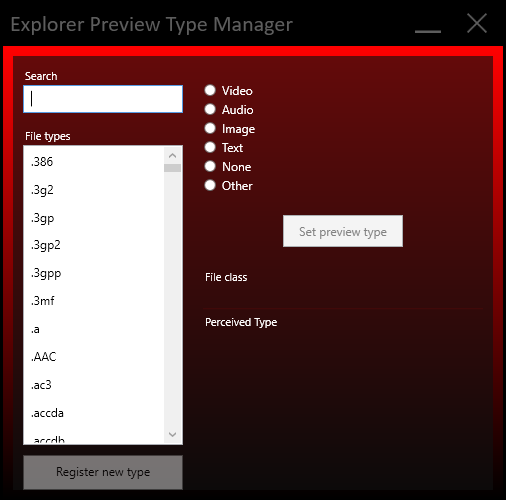
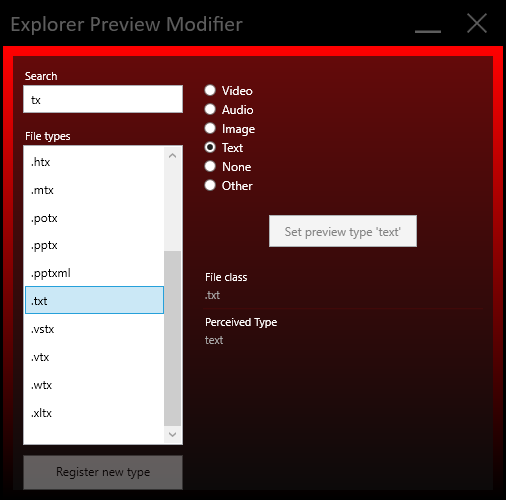
change product name to "Explorer Preview Modifier"

diff --git a/ExplorerPreview/MainWindow.xaml b/ExplorerPreview/MainWindow.xaml
@@ -11,7 +11,7 @@
         ResizeMode="NoResize"
         Margin="0"
         Style="{StaticResource CustomWindow2}"
-        Title="Explorer Preview As"
+        Title="Explorer Preview Modifier"
         Height="500" MinWidth="{Binding ElementName=mainGrid, Path=Width}" Padding="0" Width="506"
         d:DataContext="{d:DesignInstance Type=vm:MainViewModel,IsDesignTimeCreatable=True}" >
 

diff --git a/ExplorerPreview/Properties/Resources.Designer.cs b/ExplorerPreview/Properties/Resources.Designer.cs
@@ -8,10 +8,10 @@
 // </auto-generated>
 //------------------------------------------------------------------------------
 
-namespace ExplorerPreview.Properties
-{
-
-
+namespace ExplorerPreview.Properties {
+    using System;
+    
+    
     /// <summary>
     ///   A strongly-typed resource class, for looking up localized strings, etc.
     /// </summary>
@@ -19,51 +19,43 @@ namespace ExplorerPreview.Properties
     // class via a tool like ResGen or Visual Studio.
     // To add or remove a member, edit your .ResX file then rerun ResGen
     // with the /str option, or rebuild your VS project.
-    [global::System.CodeDom.Compiler.GeneratedCodeAttribute("System.Resources.Tools.StronglyTypedResourceBuilder", "4.0.0.0")]
+    [global::System.CodeDom.Compiler.GeneratedCodeAttribute("System.Resources.Tools.StronglyTypedResourceBuilder", "15.0.0.0")]
     [global::System.Diagnostics.DebuggerNonUserCodeAttribute()]
     [global::System.Runtime.CompilerServices.CompilerGeneratedAttribute()]
-    internal class Resources
-    {
-
+    internal class Resources {
+        
         private static global::System.Resources.ResourceManager resourceMan;
-
+        
         private static global::System.Globalization.CultureInfo resourceCulture;
-
+        
         [global::System.Diagnostics.CodeAnalysis.SuppressMessageAttribute("Microsoft.Performance", "CA1811:AvoidUncalledPrivateCode")]
-        internal Resources()
-        {
+        internal Resources() {
         }
-
+        
         /// <summary>
         ///   Returns the cached ResourceManager instance used by this class.
         /// </summary>
         [global::System.ComponentModel.EditorBrowsableAttribute(global::System.ComponentModel.EditorBrowsableState.Advanced)]
-        internal static global::System.Resources.ResourceManager ResourceManager
-        {
-            get
-            {
-                if ((resourceMan == null))
-                {
+        internal static global::System.Resources.ResourceManager ResourceManager {
+            get {
+                if (object.ReferenceEquals(resourceMan, null)) {
                     global::System.Resources.ResourceManager temp = new global::System.Resources.ResourceManager("ExplorerPreview.Properties.Resources", typeof(Resources).Assembly);
                     resourceMan = temp;
                 }
                 return resourceMan;
             }
         }
-
+        
         /// <summary>
         ///   Overrides the current thread's CurrentUICulture property for all
         ///   resource lookups using this strongly typed resource class.
         /// </summary>
         [global::System.ComponentModel.EditorBrowsableAttribute(global::System.ComponentModel.EditorBrowsableState.Advanced)]
-        internal static global::System.Globalization.CultureInfo Culture
-        {
-            get
-            {
+        internal static global::System.Globalization.CultureInfo Culture {
+            get {
                 return resourceCulture;
             }
-            set
-            {
+            set {
                 resourceCulture = value;
             }
         }

diff --git a/ExplorerPreview/Properties/Settings.Designer.cs b/ExplorerPreview/Properties/Settings.Designer.cs
@@ -8,21 +8,17 @@
 // </auto-generated>
 //------------------------------------------------------------------------------
 
-namespace ExplorerPreview.Properties
-{
-
-
+namespace ExplorerPreview.Properties {
+    
+    
     [global::System.Runtime.CompilerServices.CompilerGeneratedAttribute()]
-    [global::System.CodeDom.Compiler.GeneratedCodeAttribute("Microsoft.VisualStudio.Editors.SettingsDesigner.SettingsSingleFileGenerator", "11.0.0.0")]
-    internal sealed partial class Settings : global::System.Configuration.ApplicationSettingsBase
-    {
-
+    [global::System.CodeDom.Compiler.GeneratedCodeAttribute("Microsoft.VisualStudio.Editors.SettingsDesigner.SettingsSingleFileGenerator", "15.9.0.0")]
+    internal sealed partial class Settings : global::System.Configuration.ApplicationSettingsBase {
+        
         private static Settings defaultInstance = ((Settings)(global::System.Configuration.ApplicationSettingsBase.Synchronized(new Settings())));
-
-        public static Settings Default
-        {
-            get
-            {
+        
+        public static Settings Default {
+            get {
                 return defaultInstance;
             }
         }

diff --git a/ExplorerPreview/Properties/AssemblyInfo.cs b/ExplorerPreview/Properties/AssemblyInfo.cs
@@ -11,8 +11,8 @@ using System.Windows;
 [assembly: AssemblyDescription("")]
 [assembly: AssemblyConfiguration("")]
 [assembly: AssemblyCompany("")]
-[assembly: AssemblyProduct("ExplorerPreview")]
-[assembly: AssemblyCopyright("Copyright ©  2017")]
+[assembly: AssemblyProduct("Explorer Preview Modifier")]
+[assembly: AssemblyCopyright("Copyright © midnightsyntax 2019")]
 [assembly: AssemblyTrademark("")]
 [assembly: AssemblyCulture("")]
 

diff --git a/README.md b/README.md
@@ -1,6 +1,6 @@
-# Explorer Preview As
+# Explorer Preview Modifier
 
-A small utility program for managing how Windows Explorer previews files in the preview pane.
+A small utility program for managing percieved types and changing how Explorer previews files in the preview pane.
 
 ## Features:
 -   Change percieved types of registered file types
